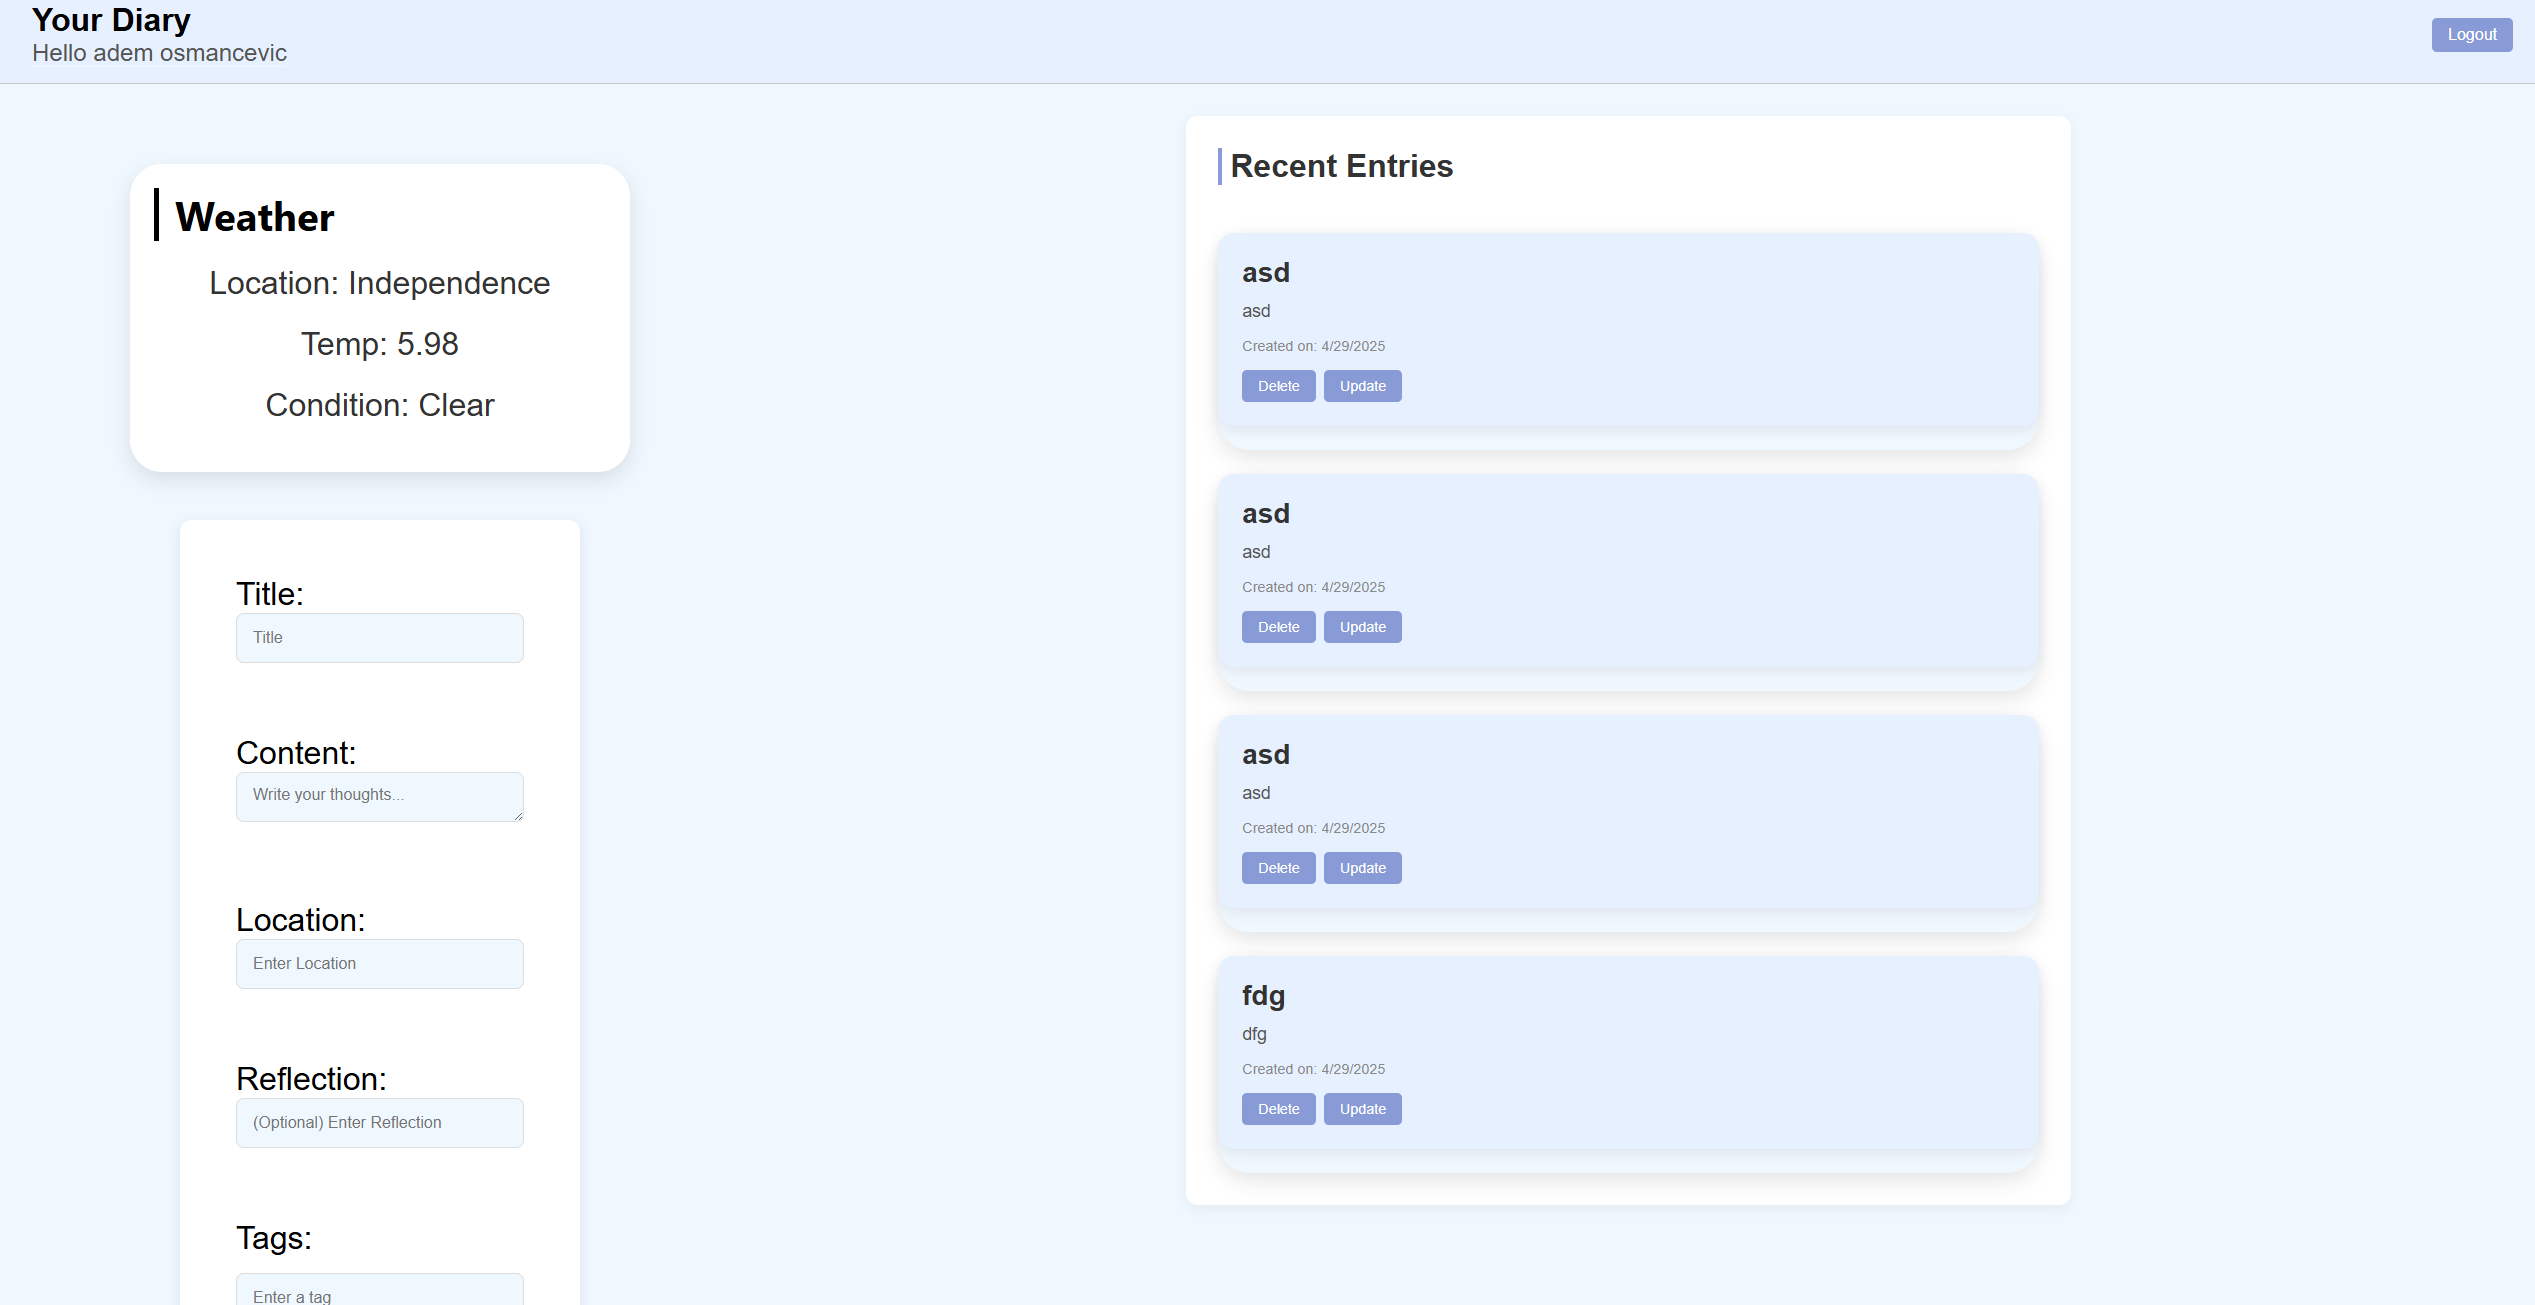
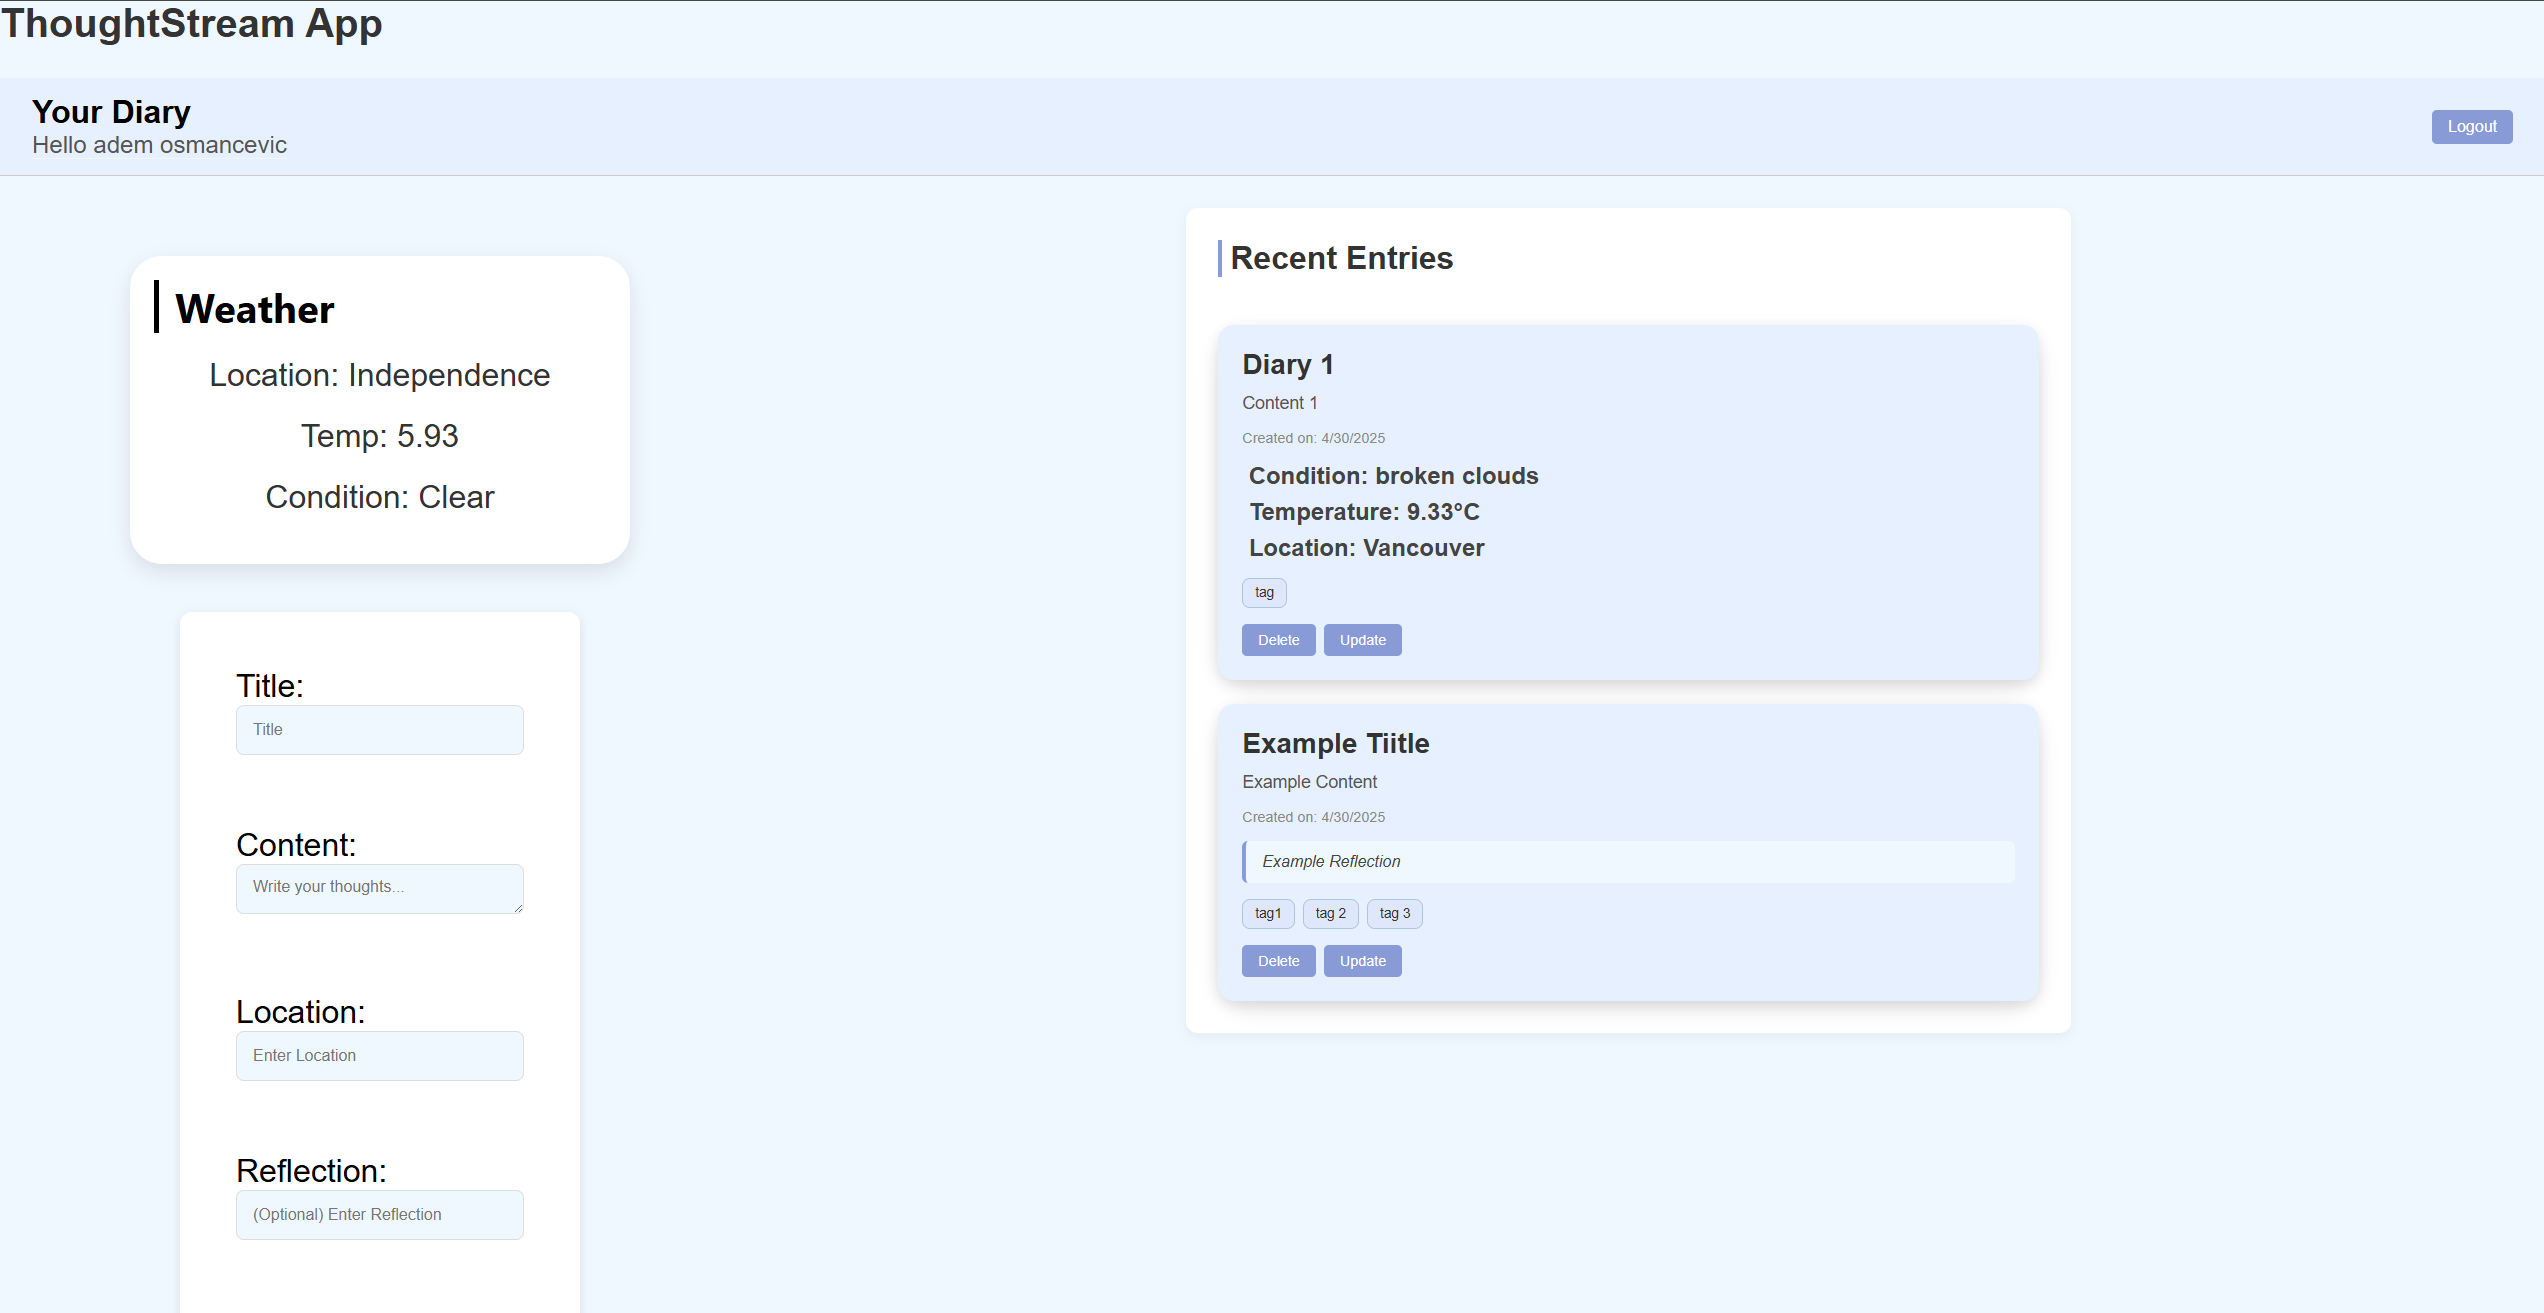
photos and weather fix

diff --git a/thoughtstream-frontend/src/components/DiaryEntryCard.jsx b/thoughtstream-frontend/src/components/DiaryEntryCard.jsx
@@ -153,10 +153,10 @@ function DiaryEntryCard({id, title, location, reflection, content, creation, wea
             <p className="card-content">{content}</p>
             <p className="card-created">Created on: {new Date(creation).toLocaleDateString()}</p>
             {weather && (
-            <div>
-               <p>Condition: {weather.condition}</p>
-               <p>Temperature: {weather.temperature}°C</p>
-               <p>Location: {weather.location}</p>
+            <div className="weather-text">
+               <p className="weather-condition">Condition: {weather.condition}</p>
+               <p className="weather-condition">Temperature: {weather.temperature}°C</p>
+               <p className="weather-condition">Location: {weather.location}</p>
             </div>
             )}
             {reflection && <p className="card-reflection">{reflection}</p>}

diff --git a/thoughtstream-frontend/src/styles/index.css b/thoughtstream-frontend/src/styles/index.css
@@ -341,3 +341,21 @@ button:hover{
     background-color: white;
     padding-left: 0.2rem;
 }
+.weather-text{
+    font-size: 1.5rem;
+    font-weight:bold;
+    color:#444;
+    margin-bottom: 0.5rem;
+    
+    background-color: #e6f0ff;
+    padding-left: 0.2rem;
+}
+
+.weather-condition{
+    font-size: 1.2rem;
+    margin-bottom: 0.75rem;
+    line-height: 1.6;
+    font-weight: 500;
+    background-color: #e6f0ff;
+    
+}
